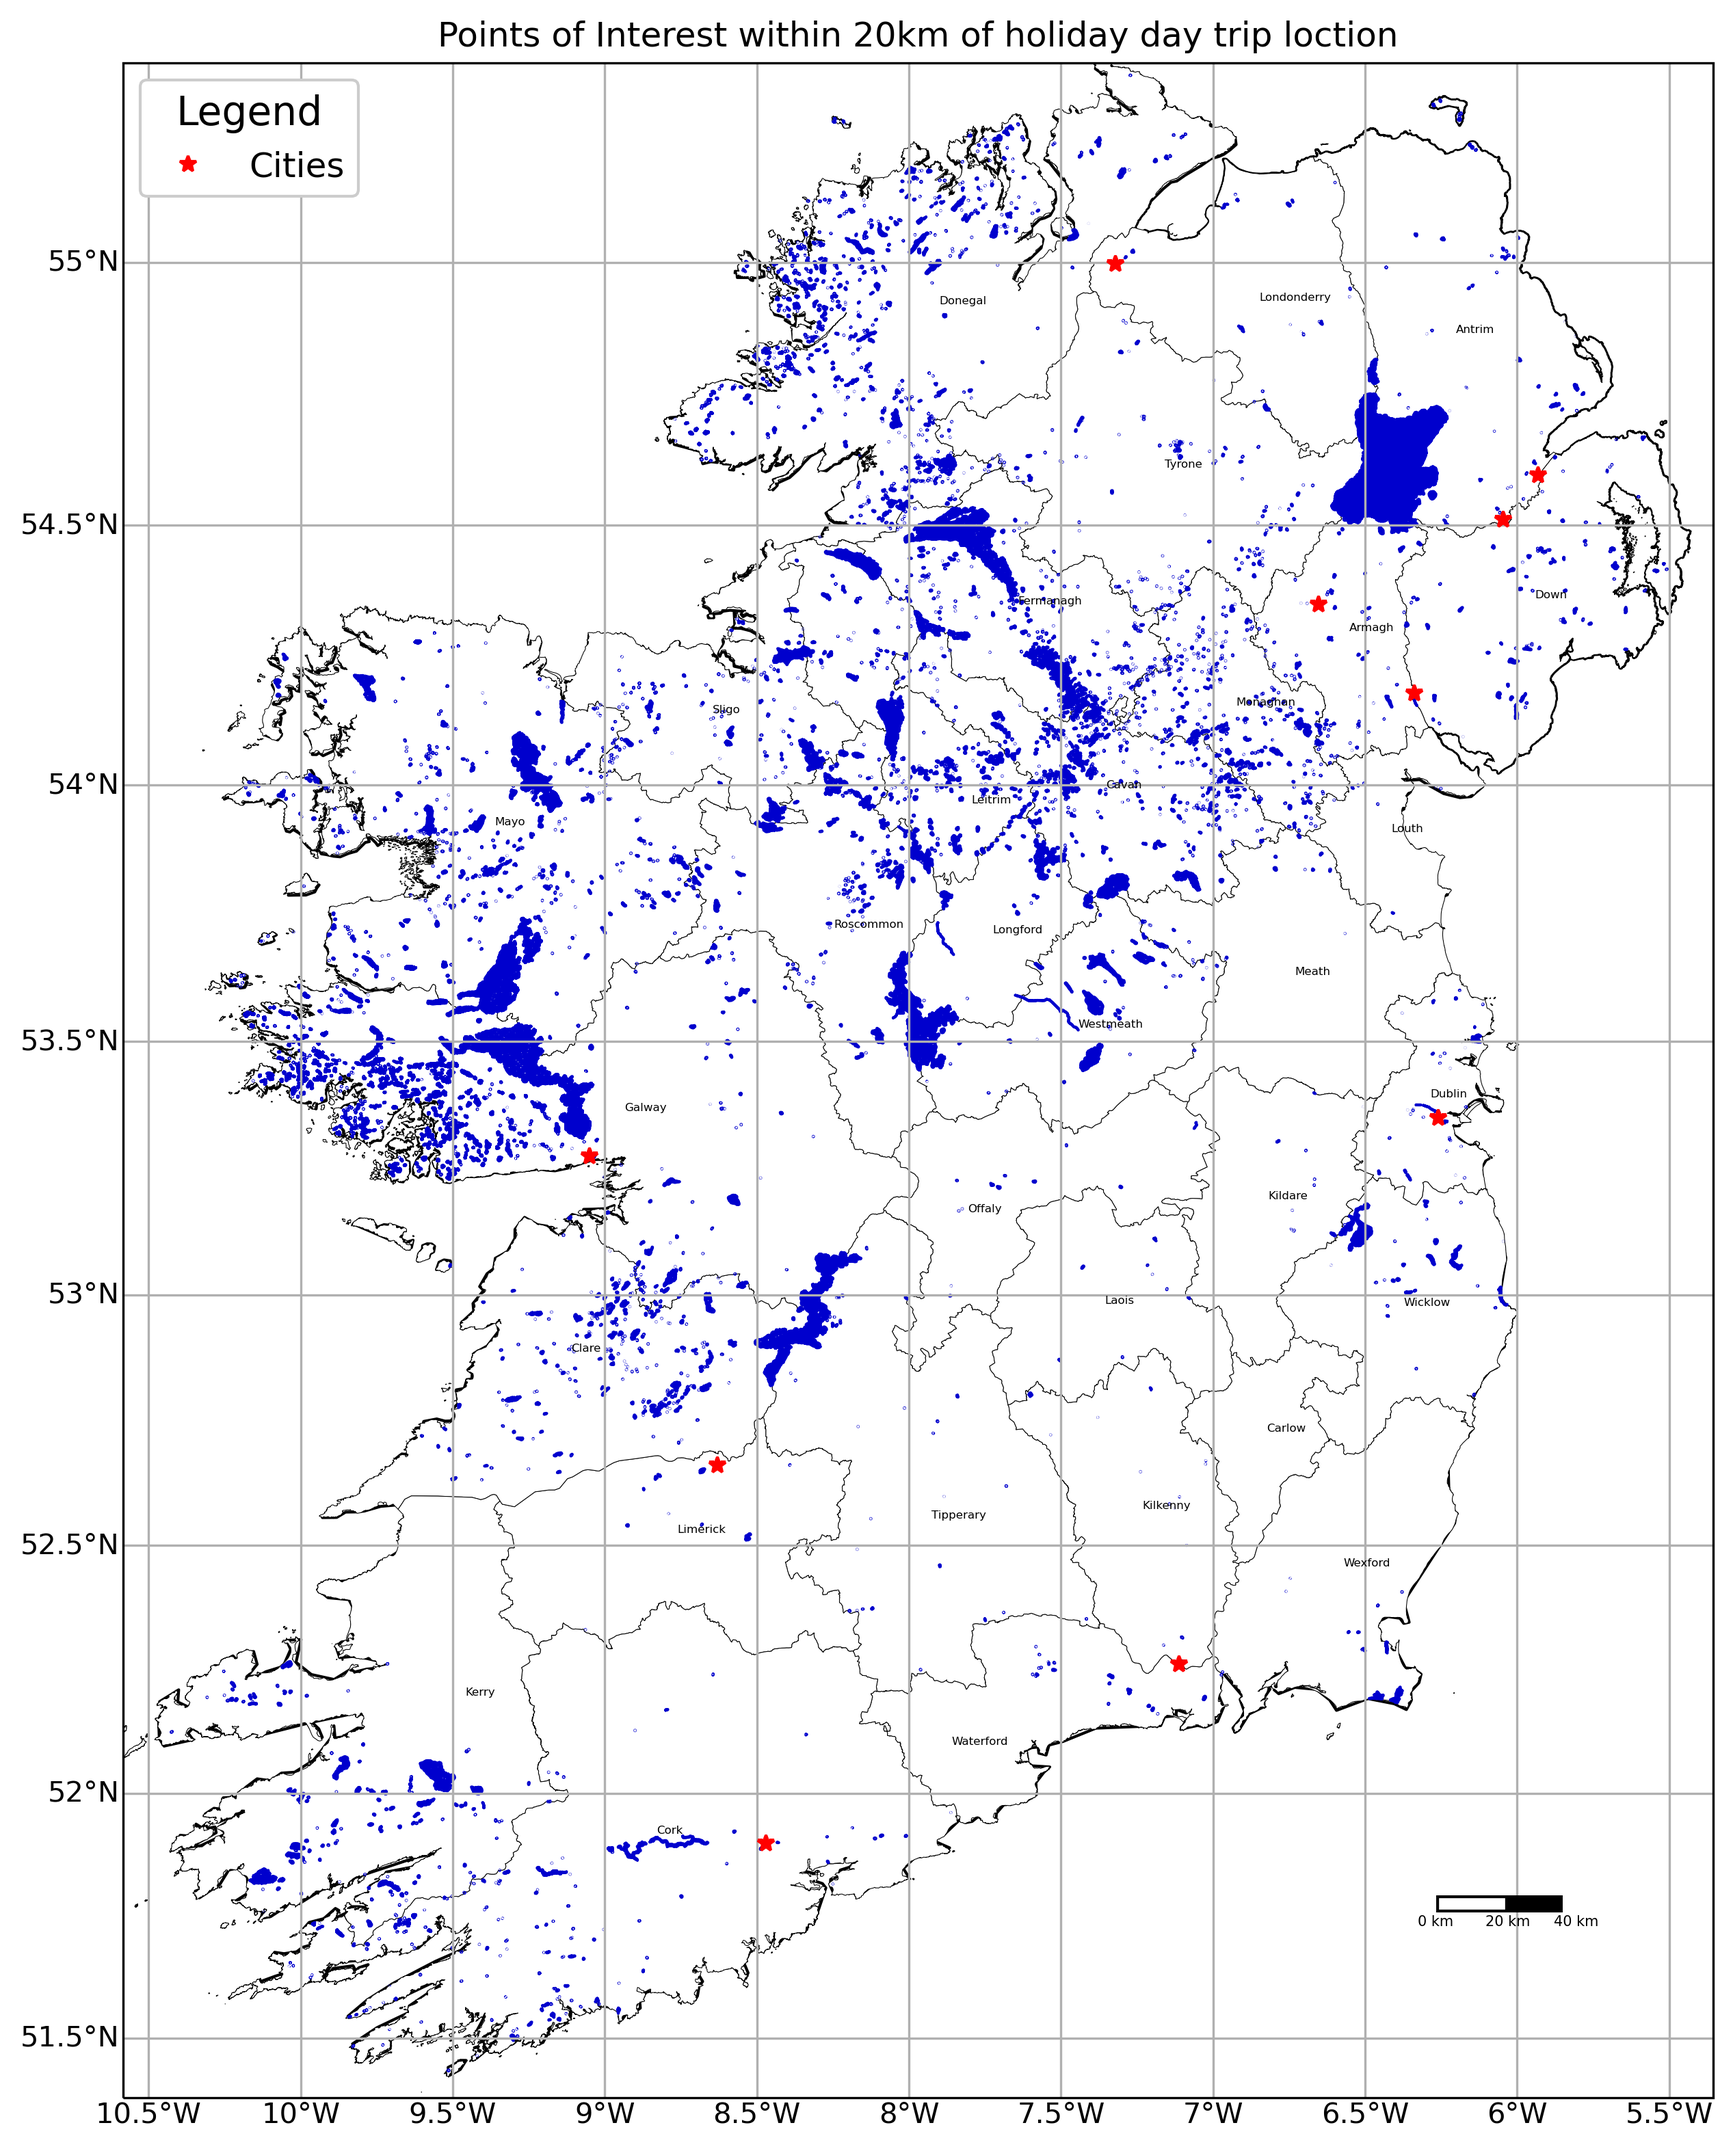
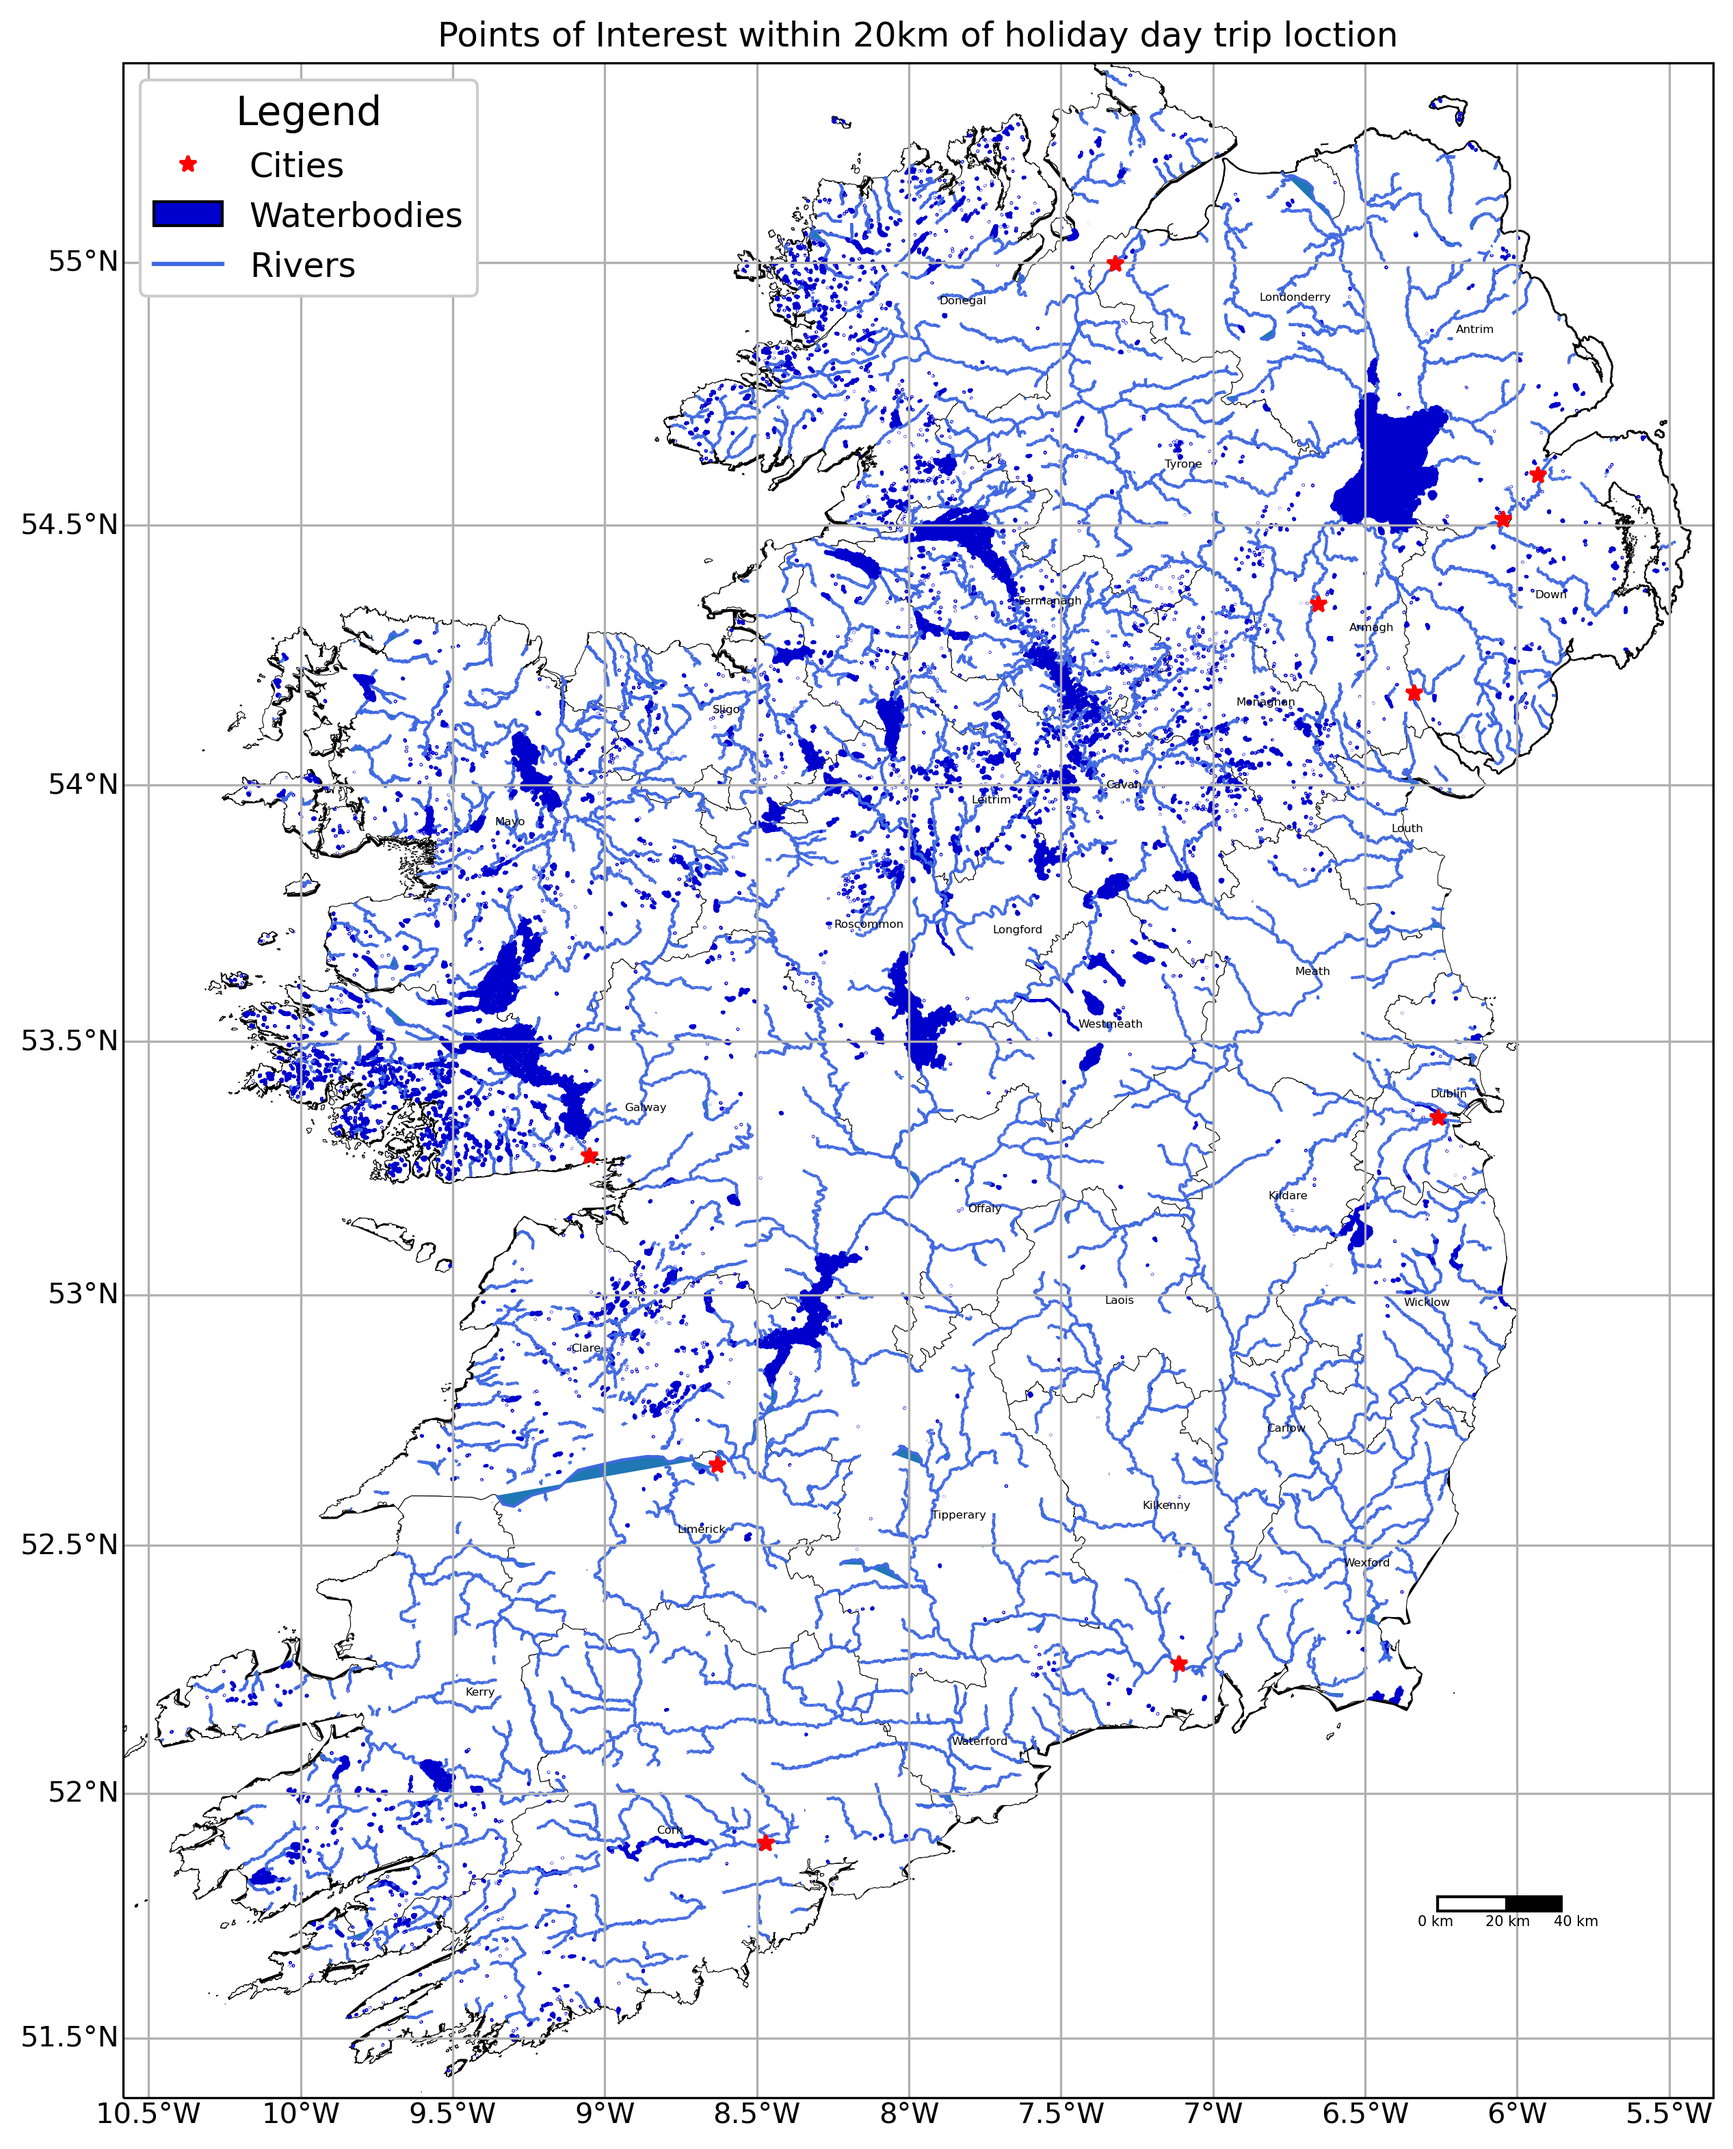
Updating map and legend
Adding Rivers and Waterbodies to map and map legend

diff --git a/GIS_Tool.py b/GIS_Tool.py
@@ -46,6 +46,9 @@ outline = outline.to_crs(epsg=2158)
 water = gpd.read_file('data_files/Files_for_analysis/Ire_Water.shp')
 water = water.to_crs(epsg=2158)
 
+rivers = gpd.read_file('data_files/Files_for_analysis/Ire_Rivers_Canals.shp')
+rivers = rivers.to_crs(epsg=2158)
+
 counties = gpd.read_file('data_files/Files_for_analysis/Ire_Counties.shp')
 counties = counties.to_crs(epsg=2158)
 
@@ -99,6 +102,12 @@ Waterbodies = ShapelyFeature(water['geometry'], myCRS,
                             linewidth=1)
 ax.add_feature(Waterbodies)
 
+Rivers = ShapelyFeature(rivers['geometry'], myCRS,
+                        edgecolor='royalblue',
+                        linewidth=1)
+
+ax.add_feature(Rivers)
+
 """Adding Towns to the map"""
 # ShapelyFeature creates a polygon, so for point data we can just use ax.plot()
 # town_handle = ax.plot(towns.geometry.x, towns.geometry.y, 's', color='0.5', ms=6, transform=myCRS)
@@ -106,6 +115,12 @@ ax.add_feature(Waterbodies)
 #town_handle = ax.plot(towns[towns['fclass'] == 'town'].geometry.x, towns[towns['fclass'] == 'town'].geometry.y, 's', color='0', ms=6, transform=myCRS)
 
 city_handle = ax.plot(towns[towns['fclass'] == 'city'].geometry.x, towns[towns['fclass'] == 'city'].geometry.y, '*', color='r', ms=6, transform=myCRS)
+
+# note: if you change the color you use to display lakes, you'll want to change it here, too
+water_handle = generate_handles(['Waterbodies'], ['mediumblue'])
+
+# note: if you change the color you use to display rivers, you'll want to change it here, too
+rivers_handle = [mlines.Line2D([], [], color='royalblue')]  # have to make this a list
 
 
 """
@@ -127,8 +142,8 @@ for i, row in center_counties.iterrows():
 
 
 # ax.legend() takes a list of handles and a list of labels corresponding to the objects you want to add to the legend
-handles = city_handle
-labels = ['Cities']
+handles = city_handle + water_handle + rivers_handle
+labels = ['Cities', 'Waterbodies', 'Rivers']
 
 leg = ax.legend(handles, labels, title='Legend', title_fontsize=14,
                  fontsize=12, loc='upper left', frameon=True, framealpha=1)
